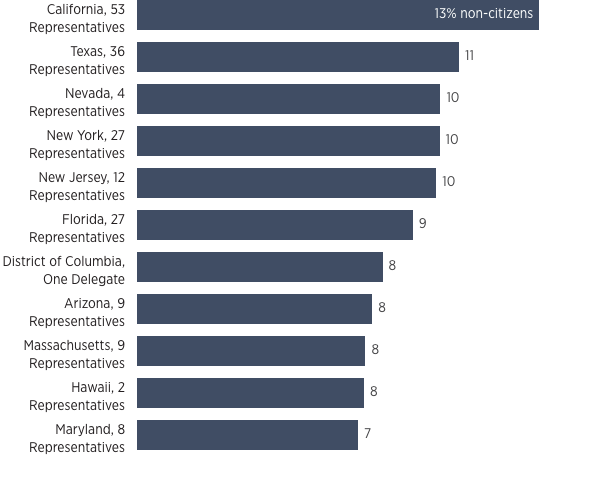
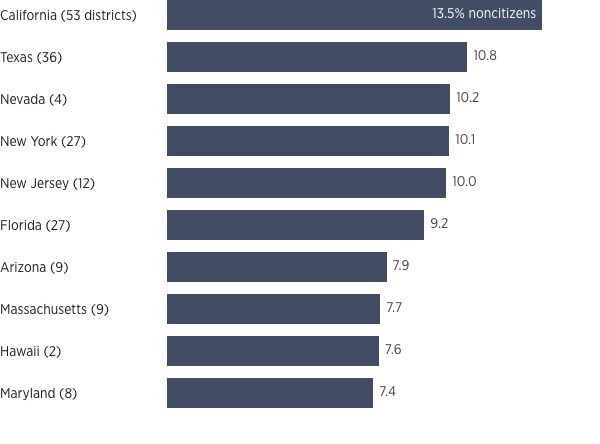
finalizing census graphics

Changed region(s): [[0.0, 0.0, 0.93, 0.9369]]

diff --git a/3CENSUS1-20190530/graphic.js b/3CENSUS1-20190530/graphic.js
@@ -63,11 +63,11 @@ var render = function () {
 var renderBarChart = function (config) {
   // Setup
   var labelColumn = "State";
-  var valueColumn = "Percent of non-citizens";
+  var valueColumn = "Percent of noncitizens";
 
   var barHeight = 30;
   var barGap = 12;
-  var labelWidth = 125;
+  var labelWidth = 155;
   var labelMargin = 6;
   var valueGap = 6;
 
@@ -208,10 +208,10 @@ var renderBarChart = function (config) {
     .append("text")
     .text(function (d, i) {
       if (i == 0) {
-        return d[valueColumn].toFixed(2) + "% non-citizens"
+        return d[valueColumn].toFixed(1) + "% noncitizens"
       } else {
 
-        return d[valueColumn].toFixed(2)
+        return d[valueColumn].toFixed(1)
       }
     })
     .attr("x", d => xScale(d[valueColumn]))

diff --git a/3CENSUS2-20190530/graphic.js b/3CENSUS2-20190530/graphic.js
@@ -62,12 +62,12 @@ var render = function () {
 // Render a bar chart.
 var renderBarChart = function (config) {
   // Setup
-  var labelColumn = "Representative";
-  var valueColumn = "Number of non-citizens";
+  var labelColumn = "District";
+  var valueColumn = "Number of noncitizens";
 
   var barHeight = 25;
   var barGap = 10;
-  var labelWidth = 235;
+  var labelWidth = 220;
   var labelMargin = 6;
   var valueGap = 6;
 
@@ -222,7 +222,7 @@ var renderBarChart = function (config) {
     .append("text")
     .text(function (d, i) {
       if (i == 0) {
-        return d[valueColumn].toFixed(1) + " K non-citizens"
+        return d[valueColumn].toFixed(1) + " K noncitizens"
       } else {
 
         return d[valueColumn].toFixed(1)

diff --git a/3CENSUS1-20190530/lib/base.less b/3CENSUS1-20190530/lib/base.less
@@ -362,7 +362,7 @@ rect {
 
   li {
     position: absolute;
-    text-align: right;
+    text-align: left;
     font-size: 14px;
     line-height: 1.3;
     color: #231F20;
@@ -380,7 +380,10 @@ rect {
   font-size: 14px;
   -webkit-font-smoothing: antialiased;
 
-  &.in { fill: #fff; font-weight: 600; }
+  &.in {
+    fill: #fff;
+    // font-family: GothamNarrow-Medium
+  }
   &.out { fill: #444446; }
 }
 

diff --git a/3CENSUS2-20190530/lib/base.less b/3CENSUS2-20190530/lib/base.less
@@ -362,7 +362,7 @@ rect {
 
   li {
     position: absolute;
-    text-align: right;
+    text-align: left;
     font-size: 14px;
     line-height: 1.3;
     color: #231F20;
